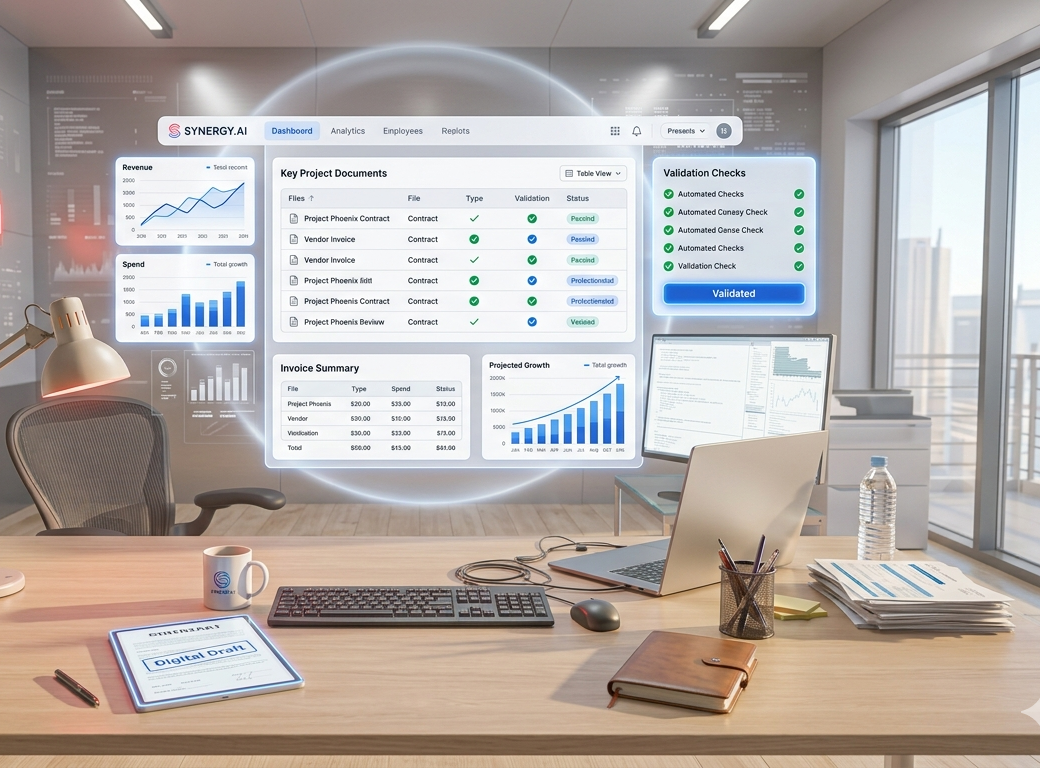
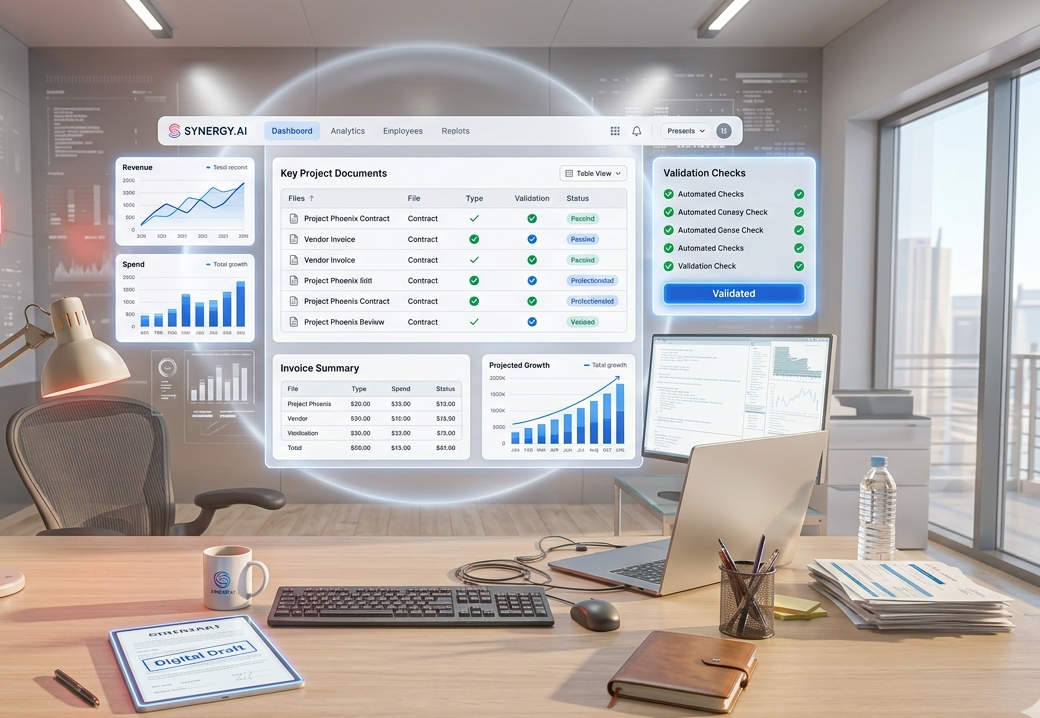
navbar existing

diff --git a/src/components/HeroOrganicFrame.tsx b/src/components/HeroOrganicFrame.tsx
@@ -41,7 +41,7 @@ export function HeroOrganicFrame({
         }}
       >
         <motion.div
-          className="relative overflow-hidden bg-slate-100/80 shadow-[0_20px_50px_-20px_rgba(15,23,42,0.12)] ring-1 ring-slate-200/60 transition-[box-shadow,transform] duration-500 group-hover:shadow-[0_28px_60px_-18px_rgba(15,23,42,0.18)]"
+          className="relative overflow-hidden rounded-[30px] border border-white/70 bg-slate-100/85 shadow-[0_18px_38px_-22px_rgba(15,23,42,0.35),0_30px_70px_-34px_rgba(14,116,144,0.35)] ring-1 ring-slate-200/70 transition-[box-shadow,transform] duration-500 group-hover:shadow-[0_24px_45px_-22px_rgba(15,23,42,0.4),0_36px_80px_-30px_rgba(6,182,212,0.38)]"
           whileHover={
             reduceMotion
               ? undefined
@@ -51,10 +51,11 @@ export function HeroOrganicFrame({
                 }
           }
         >
+          <div className="pointer-events-none absolute inset-0 rounded-[30px] bg-gradient-to-br from-white/35 via-transparent to-cyan-100/20" />
           <img
             src={src}
             alt={alt}
-            className={`relative block h-auto w-full object-cover ${
+            className={`relative block h-auto w-full rounded-[28px] object-cover ${
               chaos ? "hero-landing-img-chaos" : "hero-landing-img-clarity"
             }`}
             style={{ transform: "translateZ(0)" }}

diff --git a/src/pages/Index.tsx b/src/pages/Index.tsx
@@ -528,7 +528,7 @@ const Index = () => {
             <div className="mx-auto flex max-w-[1100px] items-center justify-between px-5 py-4 sm:px-8">
               <div className="flex items-center gap-4">
                 <img src={d360Logo} alt="D360AI" className="h-7 md:h-8" />
-                <span className="hidden font-mono text-[10px] tracking-widest text-slate-400 sm:inline">
+                <span className="hidden font-mono text-[10px] tracking-widest text-slate-900 sm:inline">
                   BY PIAZZA
                 </span>
               </div>
@@ -537,7 +537,7 @@ const Index = () => {
                   <a
                     key={section}
                     href={`#${section}`}
-                    className="font-mono text-[10px] tracking-widest text-slate-500 transition-colors hover:text-cyan-700"
+                    className="font-sans font-semibold text-[13px] tracking-widest text-black transition-colors hover:text-cyan-700"
                   >
                     {section.toUpperCase()}
                   </a>

diff --git a/src/components/LandingHero.tsx b/src/components/LandingHero.tsx
@@ -108,7 +108,7 @@ function LandingHero({
 
         <div className="grid grid-cols-1 items-center gap-8 lg:grid-cols-[minmax(0,1fr)_minmax(96px,150px)_minmax(0,1fr)] lg:gap-3 xl:gap-6">
           <motion.div
-            className="flex justify-center lg:justify-end lg:pr-1"
+            className="flex mt-6 justify-center lg:justify-end lg:pr-1 max-w-[540px] h-[340px]"
             style={{
               x: reduceMotion ? 0 : leftX,
               y: reduceMotion ? 0 : leftY,
@@ -127,7 +127,7 @@ function LandingHero({
             initial={{ opacity: 0, scale: 0.94 }}
             animate={{ opacity: 1, scale: 1 }}
             transition={{ duration: 0.75, delay: 0.25 }}
-            className="relative mx-auto flex h-[110px] w-full max-w-[190px] items-center justify-center lg:h-[210px] lg:max-w-[150px]"
+            className="relative mx-auto flex w-full  max-w-[540px] h-[340px] items-center justify-center lg:h-[210px] lg:max-w-[150px]"
             aria-hidden
           >
             <div

diff --git a/src/index.css b/src/index.css
@@ -544,7 +544,7 @@ html {
 
 /* Landing hero — color treatment only (rectangular images, no masks) */
 .hero-landing-img-chaos {
-  filter: saturate(0.52) contrast(0.9) brightness(0.88);
+  filter: saturate(0.7) contrast(0.96) brightness(1);
 }
 
 .hero-landing-img-clarity {
